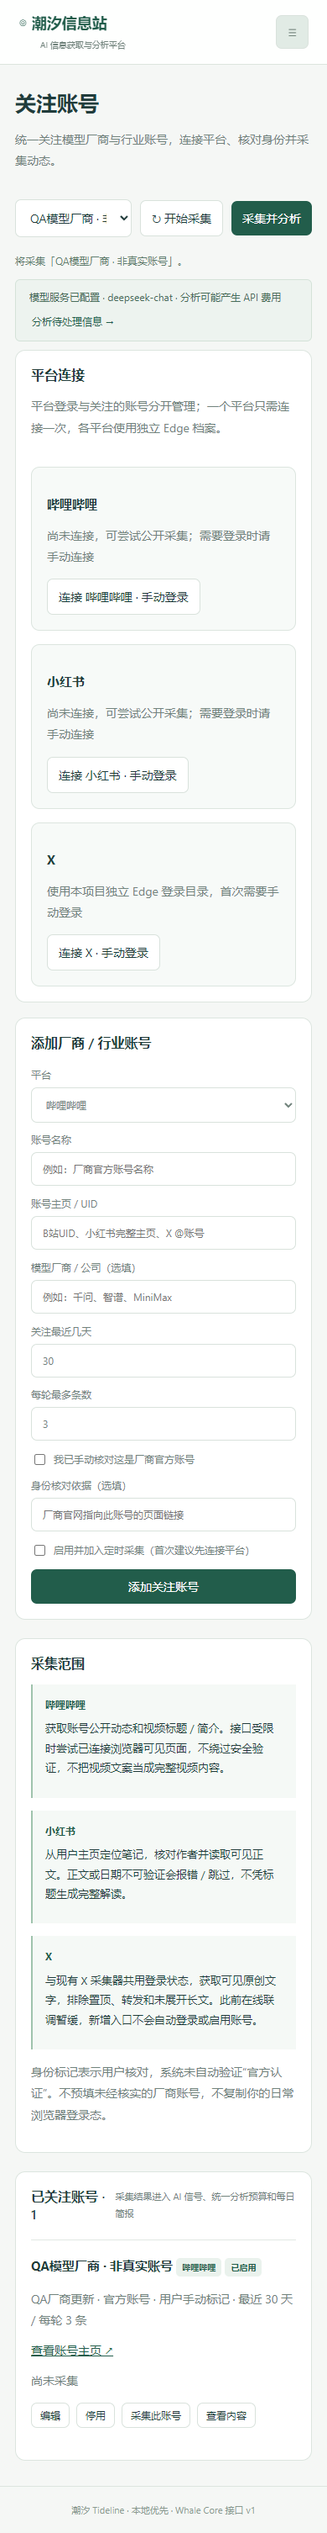
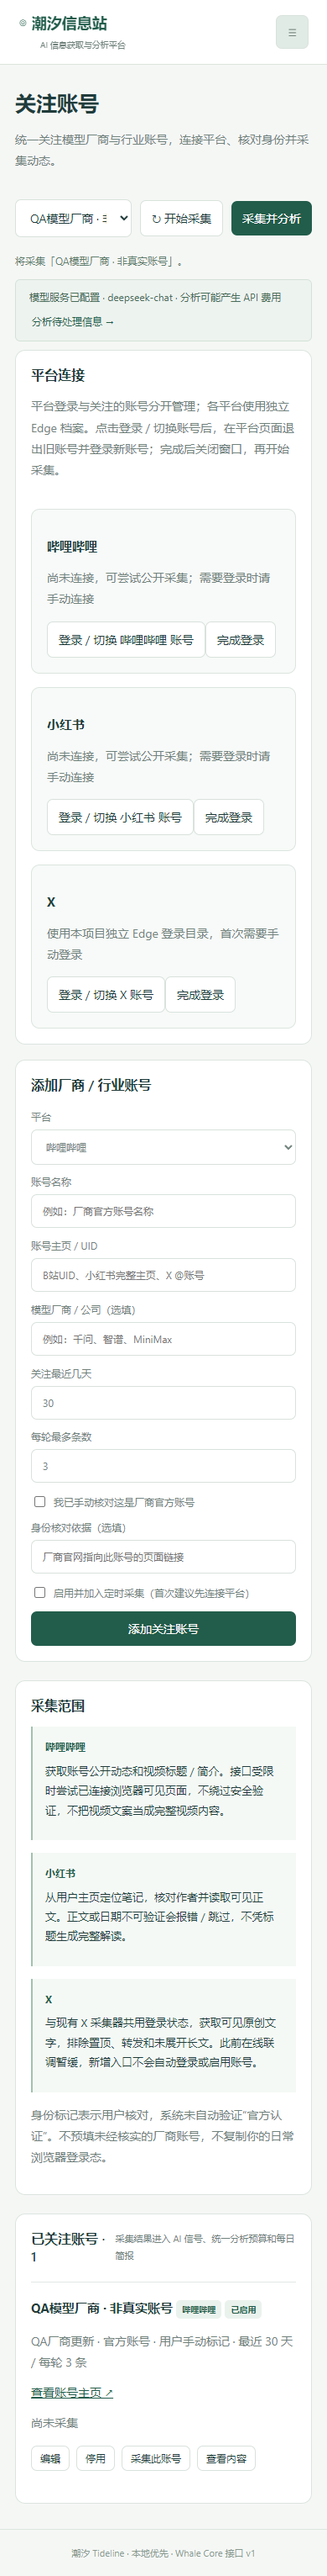
fix: keep platform login windows open for account switching

diff --git a/public/accounts.js b/public/accounts.js
@@ -2,5 +2,5 @@ export function accountPage(sources,platforms,runs,esc,editing=null){
  const accounts=sources.filter(s=>['x','bilibili','xiaohongshu'].includes(s.type));const names={x:'X',bilibili:'哔哩哔哩',xiaohongshu:'小红书'};
  const recent=id=>{for(const r of runs){const result=(r.results||[]).find(x=>x.sourceId===id);if(result)return result.status==='ok'?`新增 ${result.added||0} · 重复 ${result.duplicates||0}${result.warnings?.length?' · 有跳过/范围警告':''}`:`采集失败：${result.error}`;}return '尚未采集';};
  const field=(key,defaultValue='')=>esc(editing?.[key]??defaultValue);
- return `<section class="panel"><div class="panel-head"><div><h2>平台连接</h2><p class="muted">平台登录与关注的账号分开管理；一个平台只需连接一次，各平台使用独立 Edge 档案。</p></div></div><div class="platform-grid">${platforms.map(p=>`<div class="platform-box"><h3>${esc(p.name)}</h3><p id="platform-status-${p.id}" class="muted">${esc(p.connection?.message||'尚未检测')}</p><button data-connect-platform="${p.id}">连接 ${esc(p.name)} · 手动登录</button></div>`).join('')}</div></section><div class="settings-grid"><section class="panel"><div class="panel-head"><h2>${editing?'编辑关注账号':'添加厂商 / 行业账号'}</h2>${editing?'<button id="cancel-account-edit">取消编辑</button>':''}</div><form id="account-form" class="form-grid" data-edit-id="${esc(editing?.id||'')}"><div class="form-row"><label>平台<select name="platform" ${editing?'disabled':''}>${Object.entries(names).map(([id,name])=>`<option value="${id}" ${(editing?.type||'bilibili')===id?'selected':''}>${name}</option>`).join('')}</select></label><label>账号名称<input name="name" maxlength="160" required value="${field('name')}" placeholder="例如：厂商官方账号名称"></label></div><label>账号主页 / UID<input name="url" required ${editing?'readonly':''} value="${field('url')}" placeholder="B站UID、小红书完整主页、X @账号"></label><label>模型厂商 / 公司（选填）<input name="manufacturer" maxlength="100" value="${field('manufacturer')}" placeholder="例如：千问、智谱、MiniMax"></label><div class="form-row"><label>关注最近几天<input name="lookbackDays" type="number" min="1" max="365" required value="${field('lookbackDays',30)}"></label><label>每轮最多条数<input name="limit" type="number" min="1" max="10" required value="${field('limit',3)}"></label></div><label class="check-line"><input name="officialClaim" type="checkbox" ${editing?.officialClaim?'checked':''}> 我已手动核对这是厂商官方账号</label><label>身份核对依据（选填）<input name="verificationUrl" type="url" value="${field('verificationUrl')}" placeholder="厂商官网指向此账号的页面链接"></label><label class="check-line"><input name="enabled" type="checkbox" ${editing?.enabled?'checked':''}> 启用并加入定时采集（首次建议先连接平台）</label><button class="primary">${editing?'保存账号设置':'添加关注账号'}</button></form></section><section class="panel"><h2>采集范围</h2><div class="analysis-block"><strong>哔哩哔哩</strong><p>获取账号公开动态和视频标题 / 简介。接口受限时尝试已连接浏览器可见页面，不绕过安全验证，不把视频文案当成完整视频内容。</p></div><div class="analysis-block"><strong>小红书</strong><p>从用户主页定位笔记，核对作者并读取可见正文。正文或日期不可验证会报错 / 跳过，不凭标题生成完整解读。</p></div><div class="analysis-block"><strong>X</strong><p>与现有 X 采集器共用登录状态，获取可见原创文字，排除置顶、转发和未展开长文。此前在线联调暂缓，新增入口不会自动登录或启用账号。</p></div><p class="muted">身份标记表示用户核对，系统未自动验证“官方认证”。不预填未经核实的厂商账号，不复制你的日常浏览器登录态。</p></section></div><section class="panel" style="margin-top:22px"><div class="panel-head"><h2>已关注账号 · ${accounts.length}</h2><small>采集结果进入 AI 信号、统一分析预算和每日简报</small></div>${accounts.map(s=>`<article class="account-row"><div class="account-info"><h3>${esc(s.name)} <span class="badge">${names[s.type]}</span> <span class="badge ${s.enabled===false?'warning':''}">${s.enabled===false?'已停用':'已启用'}</span></h3><p class="muted">${esc(s.manufacturer||'未填写厂商')} · ${s.officialClaim?'官方账号 · 用户手动标记':'身份未核对'} · 最近 ${s.lookbackDays||7} 天 / 每轮 ${s.limit||3} 条</p><a href="${esc(s.url)}" target="_blank" rel="noopener noreferrer">查看账号主页 ↗</a><p class="muted">${esc(recent(s.id))}</p></div><div class="actions"><button data-edit-account="${s.id}">编辑</button><button data-source-toggle="${s.id}">${s.enabled===false?'启用':'停用'}</button><button data-collect-account="${s.id}" ${s.enabled===false?'disabled':''}>采集此账号</button><button data-account-signals="${s.id}">查看内容</button></div></article>`).join('')||'<p class="empty">尚未关注账号。添加真实主页后，连接平台并启用采集。</p>'}</section>`;
+ return `<section class="panel"><div class="panel-head"><div><h2>平台连接</h2><p class="muted">平台登录与关注的账号分开管理；各平台使用独立 Edge 档案。点击登录 / 切换账号后，在平台页面退出旧账号并登录新账号；完成后关闭窗口，再开始采集。</p></div></div><div class="platform-grid">${platforms.map(p=>`<div class="platform-box"><h3>${esc(p.name)}</h3><p id="platform-status-${p.id}" class="muted">${esc(p.connection?.message||'尚未检测')}</p><button data-connect-platform="${p.id}">登录 / 切换 ${esc(p.name)} 账号</button><button data-finish-platform="${p.id}">完成登录</button></div>`).join('')}</div></section><div class="settings-grid"><section class="panel"><div class="panel-head"><h2>${editing?'编辑关注账号':'添加厂商 / 行业账号'}</h2>${editing?'<button id="cancel-account-edit">取消编辑</button>':''}</div><form id="account-form" class="form-grid" data-edit-id="${esc(editing?.id||'')}"><div class="form-row"><label>平台<select name="platform" ${editing?'disabled':''}>${Object.entries(names).map(([id,name])=>`<option value="${id}" ${(editing?.type||'bilibili')===id?'selected':''}>${name}</option>`).join('')}</select></label><label>账号名称<input name="name" maxlength="160" required value="${field('name')}" placeholder="例如：厂商官方账号名称"></label></div><label>账号主页 / UID<input name="url" required ${editing?'readonly':''} value="${field('url')}" placeholder="B站UID、小红书完整主页、X @账号"></label><label>模型厂商 / 公司（选填）<input name="manufacturer" maxlength="100" value="${field('manufacturer')}" placeholder="例如：千问、智谱、MiniMax"></label><div class="form-row"><label>关注最近几天<input name="lookbackDays" type="number" min="1" max="365" required value="${field('lookbackDays',30)}"></label><label>每轮最多条数<input name="limit" type="number" min="1" max="10" required value="${field('limit',3)}"></label></div><label class="check-line"><input name="officialClaim" type="checkbox" ${editing?.officialClaim?'checked':''}> 我已手动核对这是厂商官方账号</label><label>身份核对依据（选填）<input name="verificationUrl" type="url" value="${field('verificationUrl')}" placeholder="厂商官网指向此账号的页面链接"></label><label class="check-line"><input name="enabled" type="checkbox" ${editing?.enabled?'checked':''}> 启用并加入定时采集（首次建议先连接平台）</label><button class="primary">${editing?'保存账号设置':'添加关注账号'}</button></form></section><section class="panel"><h2>采集范围</h2><div class="analysis-block"><strong>哔哩哔哩</strong><p>获取账号公开动态和视频标题 / 简介。接口受限时尝试已连接浏览器可见页面，不绕过安全验证，不把视频文案当成完整视频内容。</p></div><div class="analysis-block"><strong>小红书</strong><p>从用户主页定位笔记，核对作者并读取可见正文。正文或日期不可验证会报错 / 跳过，不凭标题生成完整解读。</p></div><div class="analysis-block"><strong>X</strong><p>与现有 X 采集器共用登录状态，获取可见原创文字，排除置顶、转发和未展开长文。此前在线联调暂缓，新增入口不会自动登录或启用账号。</p></div><p class="muted">身份标记表示用户核对，系统未自动验证“官方认证”。不预填未经核实的厂商账号，不复制你的日常浏览器登录态。</p></section></div><section class="panel" style="margin-top:22px"><div class="panel-head"><h2>已关注账号 · ${accounts.length}</h2><small>采集结果进入 AI 信号、统一分析预算和每日简报</small></div>${accounts.map(s=>`<article class="account-row"><div class="account-info"><h3>${esc(s.name)} <span class="badge">${names[s.type]}</span> <span class="badge ${s.enabled===false?'warning':''}">${s.enabled===false?'已停用':'已启用'}</span></h3><p class="muted">${esc(s.manufacturer||'未填写厂商')} · ${s.officialClaim?'官方账号 · 用户手动标记':'身份未核对'} · 最近 ${s.lookbackDays||7} 天 / 每轮 ${s.limit||3} 条</p><a href="${esc(s.url)}" target="_blank" rel="noopener noreferrer">查看账号主页 ↗</a><p class="muted">${esc(recent(s.id))}</p></div><div class="actions"><button data-edit-account="${s.id}">编辑</button><button data-source-toggle="${s.id}">${s.enabled===false?'启用':'停用'}</button><button data-collect-account="${s.id}" ${s.enabled===false?'disabled':''}>采集此账号</button><button data-account-signals="${s.id}">查看内容</button></div></article>`).join('')||'<p class="empty">尚未关注账号。添加真实主页后，连接平台并启用采集。</p>'}</section>`;
 }

diff --git a/public/operations.js b/public/operations.js
@@ -2,6 +2,6 @@ import {scopeLabel} from './labels.js';
 export function operationsSettings(extra,esc){
  const c=extra.scheduler?.config||{},x=extra.x||{},jobs=extra.scheduler?.jobs||[];
  const next=c.nextRunAt?new Intl.DateTimeFormat('zh-CN',{timeZone:'Asia/Shanghai',dateStyle:'medium',timeStyle:'short'}).format(new Date(c.nextRunAt)):'未安排';
- return `<div class="settings-grid"><section class="panel"><div class="panel-head"><h2>自动运行</h2><span class="badge">${c.enabled?'已启用':'已暂停'}</span></div><form id="schedule-form" class="form-grid"><label class="check-line"><input name="enabled" type="checkbox" ${c.enabled?'checked':''}> 启用定时采集与分析</label><div class="form-row"><label>采集间隔（分钟）<input name="intervalMinutes" type="number" min="15" max="1440" value="${c.intervalMinutes||360}" required></label><label>每轮最多分析<input name="analysisLimit" type="number" min="0" max="20" value="${c.analysisLimit??3}" required></label></div><label>每日模型调用上限（含失败尝试）<input name="dailyCallLimit" type="number" min="0" max="100" value="${c.dailyCallLimit??12}" required></label><button class="primary">保存运行设置</button></form><div class="actions"><button id="run-scheduled">立即执行一轮</button><button id="refresh-operations">刷新运行状态</button></div><p class="muted">今日已调用 ${extra.scheduler?.usedCallsToday||0} 次 · 下次：${esc(next)}（上海时间）</p><p class="muted">服务运行时生效；关机或退出服务不会执行。失败最多重试3次，错过的周期合并。此处限制调用次数，每次输出最多2000 tokens，不是精确金额封顶。</p></section><section class="panel"><div class="panel-head"><h2>X 人物动态</h2><span class="badge">独立 Edge 登录</span></div><p id="x-status" class="muted">${esc(x.message||'尚未检测 X 登录')}</p><div class="actions"><button id="x-login">连接 X · 手动登录</button><button id="install-x">添加行业人物</button></div><p class="muted">预置 Sam Altman、Karpathy、Elon Musk、Anthropic；初始停用。登录后在来源管理启用。也可在下方新增 X 人物主页。</p><p class="muted">仅抓取最近7天可见原创文本，排除旧置顶、他人转发和未展开长文；图片、视频、完整对话不在本版解析范围。登录失效、网络失败和限流会单独报错。</p><p class="muted">需要代理时，在 .env 配置 FEED_X_PROXY=http://127.0.0.1:端口 并重启；不读取原项目或日常浏览器档案。</p></section></div>${jobs.length?`<section class="panel" style="margin-top:22px"><h2>自动任务记录</h2>${jobs.slice(0,8).map(j=>`<div class="source-row"><div><strong>${esc(j.status)} · 尝试 ${j.attempts}/3</strong><p class="muted">${esc(j.createdAt)} ${j.error?'· '+esc(j.error):''}</p></div></div>`).join('')}</section>`:''}`;
+ return `<div class="settings-grid"><section class="panel"><div class="panel-head"><h2>自动运行</h2><span class="badge">${c.enabled?'已启用':'已暂停'}</span></div><form id="schedule-form" class="form-grid"><label class="check-line"><input name="enabled" type="checkbox" ${c.enabled?'checked':''}> 启用定时采集与分析</label><div class="form-row"><label>采集间隔（分钟）<input name="intervalMinutes" type="number" min="15" max="1440" value="${c.intervalMinutes||360}" required></label><label>每轮最多分析<input name="analysisLimit" type="number" min="0" max="20" value="${c.analysisLimit??3}" required></label></div><label>每日模型调用上限（含失败尝试）<input name="dailyCallLimit" type="number" min="0" max="100" value="${c.dailyCallLimit??12}" required></label><button class="primary">保存运行设置</button></form><div class="actions"><button id="run-scheduled">立即执行一轮</button><button id="refresh-operations">刷新运行状态</button></div><p class="muted">今日已调用 ${extra.scheduler?.usedCallsToday||0} 次 · 下次：${esc(next)}（上海时间）</p><p class="muted">服务运行时生效；关机或退出服务不会执行。失败最多重试3次，错过的周期合并。此处限制调用次数，每次输出最多2000 tokens，不是精确金额封顶。</p></section><section class="panel"><div class="panel-head"><h2>X 人物动态</h2><span class="badge">独立 Edge 登录</span></div><p id="x-status" class="muted">${esc(x.message||'尚未检测 X 登录')}</p><div class="actions"><button id="x-login">登录 / 切换 X 账号</button><button data-finish-platform="x">完成登录</button><button id="install-x">添加行业人物</button></div><p class="muted">预置 Sam Altman、Karpathy、Elon Musk、Anthropic；初始停用。登录后在来源管理启用。也可在下方新增 X 人物主页。</p><p class="muted">仅抓取最近7天可见原创文本，排除旧置顶、他人转发和未展开长文；图片、视频、完整对话不在本版解析范围。登录失效、网络失败和限流会单独报错。</p><p class="muted">需要代理时，在 .env 配置 FEED_X_PROXY=http://127.0.0.1:端口 并重启；不读取原项目或日常浏览器档案。</p></section></div>${jobs.length?`<section class="panel" style="margin-top:22px"><h2>自动任务记录</h2>${jobs.slice(0,8).map(j=>`<div class="source-row"><div><strong>${esc(j.status)} · 尝试 ${j.attempts}/3</strong><p class="muted">${esc(j.createdAt)} ${j.error?'· '+esc(j.error):''}</p></div></div>`).join('')}</section>`:''}`;
 }
 export function persistedBriefs(briefs,esc){return `<section class="panel"><div class="panel-head"><h2>每日简报档案</h2><form id="brief-form" class="controls"><input name="day" type="date" required aria-label="简报日期"><button>生成 / 更新简报</button></form></div><p class="muted">按上海时区原文发布日期汇总；发布时间未知才使用采集日。只包含真实且已保留的信号，模型解读仍需核实。</p></section><div style="height:18px"></div>${briefs.map(b=>`<section class="panel" style="margin-bottom:16px"><div class="panel-head"><h2>${esc(b.title)}</h2><button data-export-brief="${esc(b.day)}">导出 Markdown</button></div><p class="muted">${b.count} 条有效信号 · ${b.pending} 条待处理 · 更新 ${esc(b.generatedAt)}</p>${b.items.length?b.items.map(i=>`<div class="analysis-block"><h3>${esc(i.title)}</h3><p>${esc(i.summary)}</p><p>${esc(i.whyItMatters)}</p><a href="${esc(i.url)}" target="_blank" rel="noopener noreferrer">${esc(i.sourceName)} · 原文 ↗</a><p class="muted">材料范围：${esc(scopeLabel(i.contentScope))}</p></div>`).join(''):'<p class="empty">这一天暂无可汇总的有效信号。</p>'}</section>`).join('')}`;}

diff --git a/public/app.js b/public/app.js
@@ -56,11 +56,12 @@ document.addEventListener('click',e=>action(async()=>{
  if(b.dataset.editAccount){editingAccountId=b.dataset.editAccount;render();$('#account-form').scrollIntoView({block:'start'});return;}
  if(b.id==='cancel-account-edit'){editingAccountId=null;render();return;}
  if(b.dataset.collectAccount){$('#source').value=b.dataset.collectAccount;await collectSelected();return;}
- if(b.dataset.connectPlatform){const id=b.dataset.connectPlatform;$('#status').textContent='正在打开独立平台登录窗口…';let status=await api('platforms/'+id+'/connect',{});const node=()=>$('#platform-status-'+id);if(node())node().textContent=status.message;const timer=setInterval(async()=>{try{status=await api('platforms/'+id+'/status');if(node())node().textContent=status.message;if(!['opening','awaiting_login'].includes(status.status))clearInterval(timer);}catch{clearInterval(timer);}},3000);return;}
+ if(b.dataset.finishPlatform){await api('platforms/'+b.dataset.finishPlatform+'/finish',{});await load();$('#status').textContent='登录窗口已关闭，后续采集将使用当前保存的账号。';return;}
+ if(b.dataset.connectPlatform){const id=b.dataset.connectPlatform;$('#status').textContent='正在打开独立平台登录窗口…';let status=await api('platforms/'+id+'/connect',{});const node=()=>$('#platform-status-'+id);if(node())node().textContent=status.message;const timer=setInterval(async()=>{try{status=await api('platforms/'+id+'/status');if(node())node().textContent=status.message;if(!status.busy)clearInterval(timer);}catch{clearInterval(timer);}},3000);return;}
  if(b.id==='run-scheduled'){const job=await api('scheduler/run',{});await load();$('#status').textContent='任务已入队：'+job.id+'，可刷新查看进度。';return;}
  if(b.id==='refresh-operations'){await load();return;}
  if(b.id==='install-x'){const result=await api('x/people/install',{});await load();$('#status').textContent=`添加 ${result.added.length} 个人物来源，登录后请手动启用。`;return;}
- if(b.id==='x-login'){x=await api('x/login',{});$('#x-status').textContent=x.message;const timer=setInterval(async()=>{try{x=await api('x/status');if($('#x-status'))$('#x-status').textContent=x.message;if(x.status!=='awaiting_login'&&x.status!=='opening')clearInterval(timer);}catch{clearInterval(timer);}},3000);return;}
+ if(b.id==='x-login'){x=await api('x/login',{});$('#x-status').textContent=x.message;const timer=setInterval(async()=>{try{x=await api('x/status');if($('#x-status'))$('#x-status').textContent=x.message;if(!x.busy)clearInterval(timer);}catch{clearInterval(timer);}},3000);return;}
  if(b.dataset.exportBrief){const brief=briefs.find(x=>x.day===b.dataset.exportBrief);if(!brief)return;const url=URL.createObjectURL(new Blob([brief.markdown],{type:'text/markdown;charset=utf-8'}));const a=document.createElement('a');a.href=url;a.download='tideline-'+brief.day+'.md';a.click();setTimeout(()=>URL.revokeObjectURL(url),1000);return;}
  if(b.id==='install-presets'){const result=await api('source-presets/install',{});await load();$('#status').textContent=`新增 ${result.added.length} 个内置来源，已有来源配置保持不变。`;return;}
  if(b.dataset.sourceToggle){const source=sources.find(s=>s.id===b.dataset.sourceToggle);if(!source)return;const enabled=source.enabled===false;await api('sources/'+source.id,{enabled},'PATCH');await load();$('#status').textContent=`来源「${source.name}」已${enabled?'启用，将参与批量采集':'停用，批量采集会跳过它'}。`;return;}

diff --git a/CHANGELOG.md b/CHANGELOG.md
@@ -2,6 +2,11 @@
 
 项目尚处早期阶段，接口可能调整；升级前请备份本机 `data/` 与 `.env`，备份文件不要上传到仓库。
 
+## 未发布
+
+- 登录成功后保留 Bilibili、小红书和 X 窗口，允许退出并切换账号；增加“完成登录”入口。
+- 移除旧 AI information 文件导入板块。
+
 ## 0.7.0 — 2026-11-17
 
 - 添加可视化模型管理：厂商预设、自定义兼容地址、获取模型列表、手动模型 ID、连接编辑及即时切换。
